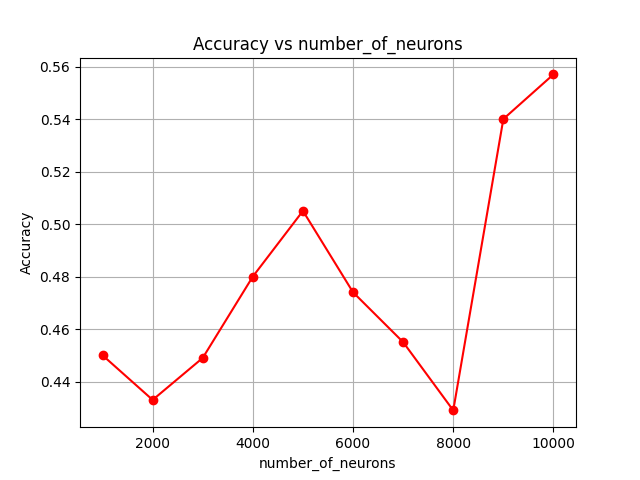
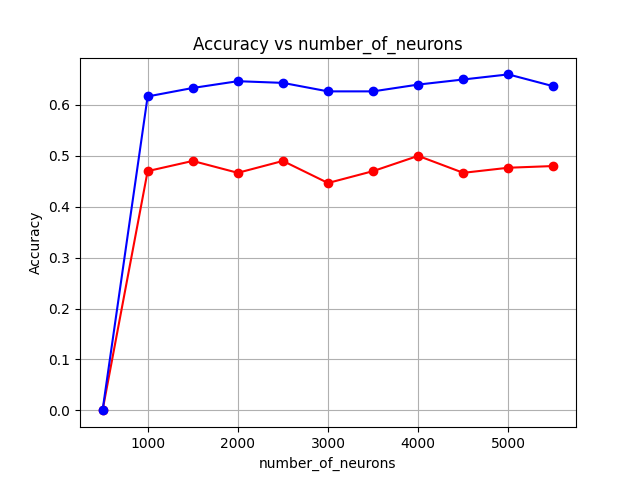
stable version. Testing stuff to get better accuracy

diff --git a/brain.py b/brain.py
@@ -1,5 +1,6 @@
 import numpy as np
 rng = np.random.default_rng()
+from collections import defaultdict
 
 class Area():
     neurons: list
@@ -13,7 +14,7 @@ class Area():
     p_q: float
     no_classes: int
     
-    def __init__(self, p = 0.1, cap_size = 10, beta=0.1, p_r = 0.9, p_q = 0.1, no_classes = 10, n = 100, in_n = 100):
+    def __init__(self, p = 0.1, cap_size = 10, beta=0.1, p_r = 0.9, p_q = 0.1, no_classes = 10, n = 100, in_n = 784):
         self.no_classes = no_classes
         self.cap_size = cap_size
         self.n = n
@@ -30,59 +31,56 @@ class Area():
         self.weights = np.random.choice([0., 1.], (self.input_size, self.n), p = [1 - p, p])
         self.weights /= self.weights.sum(axis=0)
         
-    def k_cap(self, SI, cap_size):
-        # Sorts the cap_size largest values in SI and returns their index
-        out = np.zeros(len(SI))
-        k_largest_index = np.argsort(SI)[-cap_size:]
-        # returns an array of length n where the neurons with the k largest values are 1 and the rest are 0
-        for i in range(len(SI)):
+    def _k_cap(self, arr, cap_size):
+        """ Sorts the cap_size largest values in the input array and returns their indices.
+        Args:
+            arr (np.ndarray): The array to be k-capped.
+            cap_size (int): The number of elements to be selected.
+        Returns: 
+            np.ndarray: An array of length n where the neurons with the k largest values are 1 and the rest are 0.
+        """
+        out = np.zeros(len(arr))
+        k_largest_index = np.argsort(arr)[-cap_size:]
+        for i in range(len(arr)):
             if i in k_largest_index:
                 out[i] = 1
         return out
 
-    def _test_classes(self, no_classes):
-        n = no_classes * self.cap_size
-        test_input = np.zeros((no_classes, n), dtype=int)
-        
-        for i in range(no_classes):
-            test_input[i, i * self.cap_size :(i+1) * self.cap_size:] = 1
-        
-        return test_input
-
     def _get_activations(self, in_class_activations, bias=None):
         SI = in_class_activations @ self.weights + (bias if bias is not None else 0)
-
-        activations_t_1 = self.k_cap(SI, self.cap_size)
+        activations_t_1 = self._k_cap(SI, self.cap_size)
         return activations_t_1
     
-    def _nums_to_binary(self, input):        
-        return np.where(input > 0, 1, 0)
+    def _nums_to_binary(self, input):
+        #np.where(input > 0, 1, 0)
+        normed_input = input / 255
+        out = np.astype(np.random.uniform(0, 1, (self.input_size)) < normed_input, np.int64)
+        return out
 
-    def training(self, input = None, no_rounds = None):    
+    def training(self, input = None, no_rounds = None):
         test_input = input if input is not None else self._test_classes(self.no_classes)
 
         bias = np.zeros(self.n)
         bias_penalty = -1
+        results = np.array([0.] * self.n)
+        
         for i in range(self.no_classes):
             print(f"Training class {i} using {self.n} neurons and {no_rounds[i]} rounds")
-            # highest = self.k_cap(test_input[sum(no_rounds[:i])], self.cap_size)
+            no_input = sum(no_rounds[:i])
             for j in range(no_rounds[i]):
-                #prop = [self.p_r if h >= 1 else self.p_q for h in highest]
-                #in_class_activations = np.array([(1 if np.random.rand() < prop[x] else 0) for x in range(self.input_size)])
-                
-                #in_class_activations = self.k_cap(test_input[sum(no_rounds[:i]) + j], self.cap_size)   
-                in_class_activations = self._nums_to_binary(test_input[sum(no_rounds[:i]) + j])
+                in_class_activations = self._nums_to_binary(test_input[no_input + j])
                 activations_t_1 = self._get_activations(in_class_activations, bias)
-                
-                # Matrix of same size as weights. Beta if both in_class_activations and activations_t_1 is 1
                 outer_prod = np.outer(in_class_activations, activations_t_1) * self.beta
                 self.weights = self.weights * (np.ones((len(in_class_activations), self.n)) + outer_prod)
+                results += activations_t_1
 
-            self.y[i] = activations_t_1
+            self.y[i] = np.where(activations_t_1 > 0, 1, 0)
             self.weights /= self.weights.sum(axis=0)
             bias[activations_t_1 > 0] += bias_penalty
         
         return self.y
+    
+
     
     def predict(self, input):
         """Predicts the class of the input.
@@ -90,16 +88,10 @@ class Area():
         Returns:
             Most likely class. 
         """
-        
-        #highest = self.k_cap(input, self.cap_size)
-        #prop = [self.p_r if h >= 1 else self.p_q for h in highest]
-        #in_class_activations = np.array([(1 if np.random.rand() < prop[x] else 0) for x in range(self.input_size)])
-        #activations_t_1 = self._get_activations(in_class_activations)
         activations_t_1 = self._get_activations(self._nums_to_binary(input))
         
         likely_class = None
         best_score = 0
-        
         for key, values in self.y.items():
             score = np.sum(np.array(values) == activations_t_1)
             if score > best_score:
@@ -110,11 +102,42 @@ class Area():
 
     def score(self, X_test, y_test):
         correct = 0
+        
+        wrong = defaultdict(int)
         for x, y in zip(X_test, y_test):
+
             likely_class, _ = self.predict(x)
             if likely_class == y:
                 correct += 1
-
+            else:
+                wrong[y] += 1
+            
+        print("Wrong predictions:", wrong)
         return correct / len(X_test)
-
+'''
+{
+(0): 7,
+(1): 2,
+(2): 19,
+(3): 8,
+(4): 24,
+(5): 39,
+(6): 9,
+(7): 25,
+(8): 26,
+(9): 35
+}
+'''
+'''
+(9): 23,
+(8): 9
+(7): 47,
+(6): 16,
+(5): 37,
+(4): 52,
+(3): 48,
+(2): 30,
+(1): 4,
+(0): 4
+'''
 

diff --git a/plots.py b/plots.py
@@ -52,40 +52,71 @@ def benchmark_param(
     name,
     no_data_items=1000,
     no_test_data=500,
+    no_iterations=10,
 ):
     items = []
-    accuracies = []
-    for i in range(1,11):
+    test_accuracies = []
+    train_accuracy = []
+    
+    area = area_callback(0)
+    # (X_train, y_train), (X_test, y_test) = keras.datasets.mnist.load_data()
+    # X_train = np.array([x.flatten() for x in X_train])
+    # y_train = np.array([x.flatten() for x in y_train])
+    # X_test = np.array([x.flatten() for x in X_test])
+    # y_test = np.array([x.flatten() for x in y_test])
+    # first_test_acc = area.score(X_test[:no_test_data], y_test[:no_test_data])
+    # first_train_acc = area.score(X_train[:no_test_data], y_train[:no_test_data])
+
+    # items.append(item_callback(0))
+    # test_accuracies.append(first_test_acc)
+    # train_accuracy.append(first_train_acc)
+
+    for i in range(1, no_iterations + 1):
         area = area_callback(i)
         (X_train, y_train), (X_test, y_test) = keras.datasets.mnist.load_data()
         
         y_train = y_train[:no_data_items]
+        
+        
         idxs = np.argsort(y_train)
-        X_train = [X_train[j] for j in idxs]        
+        X_train = [X_train[j] for j in idxs]
         y_train = [y_train[j] for j in idxs]
+        
 
-        no_of_rounds = [y_train.count(i) for i in range(10)]
-        print("no_of_rounds: ", no_of_rounds)
+        no_of_rounds = [y_train.count(z) for z in range(10)]
+        
+        # y_train[:no_of_rounds[0]], y_train[no_of_rounds[0]:no_of_rounds[1]] = y_train[no_of_rounds[-1]], y_train[:no_of_rounds[0]]
+        #print("no_of_rounds", no_of_rounds)
+        
+        # y_train[:no_of_rounds[0]], y_train[np.sum(no_of_rounds[:-1]):] = y_train[np.sum(no_of_rounds[:-1]):], y_train[:no_of_rounds[0]]
+        
+        # X_train[:no_of_rounds[0]], X_train[np.sum(no_of_rounds[:-1]):] = X_train[np.sum(no_of_rounds[:-1]):], X_train[:no_of_rounds[0]]
+        
+        #no_of_rounds[0], no_of_rounds[-1] = no_of_rounds[-1], no_of_rounds[0]
 
         input = np.array([x.flatten() for x in X_train])
         input_test = np.array([x.flatten() for x in X_test])
 
         area.training(input, no_rounds=no_of_rounds)
+        
+        train_acc = area.score(input[:no_data_items], y_train[:no_data_items])
         acc = area.score(input_test[:no_test_data], y_test[:no_test_data])
 
         print(f"Accuracy for {name} {item_callback(i)}: {acc}")
         items.append(item_callback(i))
-        accuracies.append(acc)
+        test_accuracies.append(acc)
+        train_accuracy.append(train_acc)
 
     plt.figure()
-    plt.plot(items, accuracies, 'ro-')
+    plt.plot(items, test_accuracies, 'ro-')
+    plt.plot(items, train_accuracy, 'ro-', color='blue')
     plt.xlabel(name)
     plt.ylabel('Accuracy')
     plt.title(f'Accuracy vs {name}')
     plt.grid(True)
-    plt.savefig(f'plots/{name}')
+    plt.savefig(f'plots/{name}1')
     
-    return items[np.argmax(accuracies)]
+    return items[np.argmax(test_accuracies)]
 
 if __name__ == '__main__':
     start = time.time()
@@ -116,12 +147,21 @@ if __name__ == '__main__':
     #     no_test_data=1000,
     # )
     
+    # best_neuron_count = benchmark_param(
+    #     area_callback=lambda i: Area(no_classes=10, cap_size=(i * 100 + 500) // 10, n=1000 * i + 1000, in_n=784, beta=0.1),
+    #     item_callback=lambda i: 500 * i + 500,
+    #     name="number_of_neurons",
+    #     no_data_items=300,
+    #     no_test_data=300,
+    # )
+
     best_neuron_count = benchmark_param(
-        area_callback=lambda i: Area(no_classes=10, cap_size=2000, n=1000 * i + 8000, in_n=784, beta=0.2),
-        item_callback=lambda i: 1000 * i,
+        area_callback=lambda i: Area(no_classes=10, cap_size=800, n=8000, in_n=784, beta=0.1),
+        item_callback=lambda i: 8000,
         name="number_of_neurons",
-        no_data_items=10000,
-        no_test_data=1000,
+        no_data_items=500,
+        no_test_data=500,
+        no_iterations=4
     )
     
 
